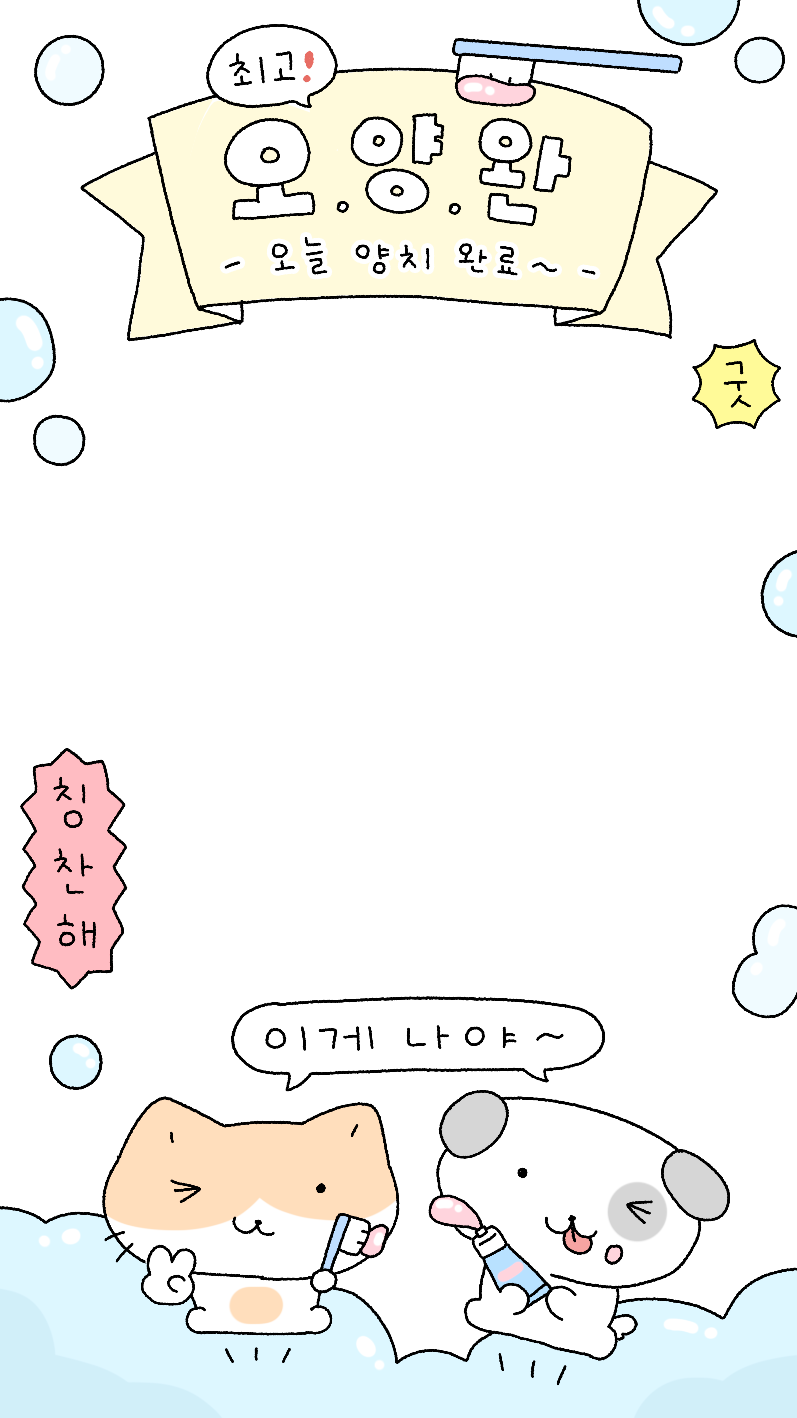
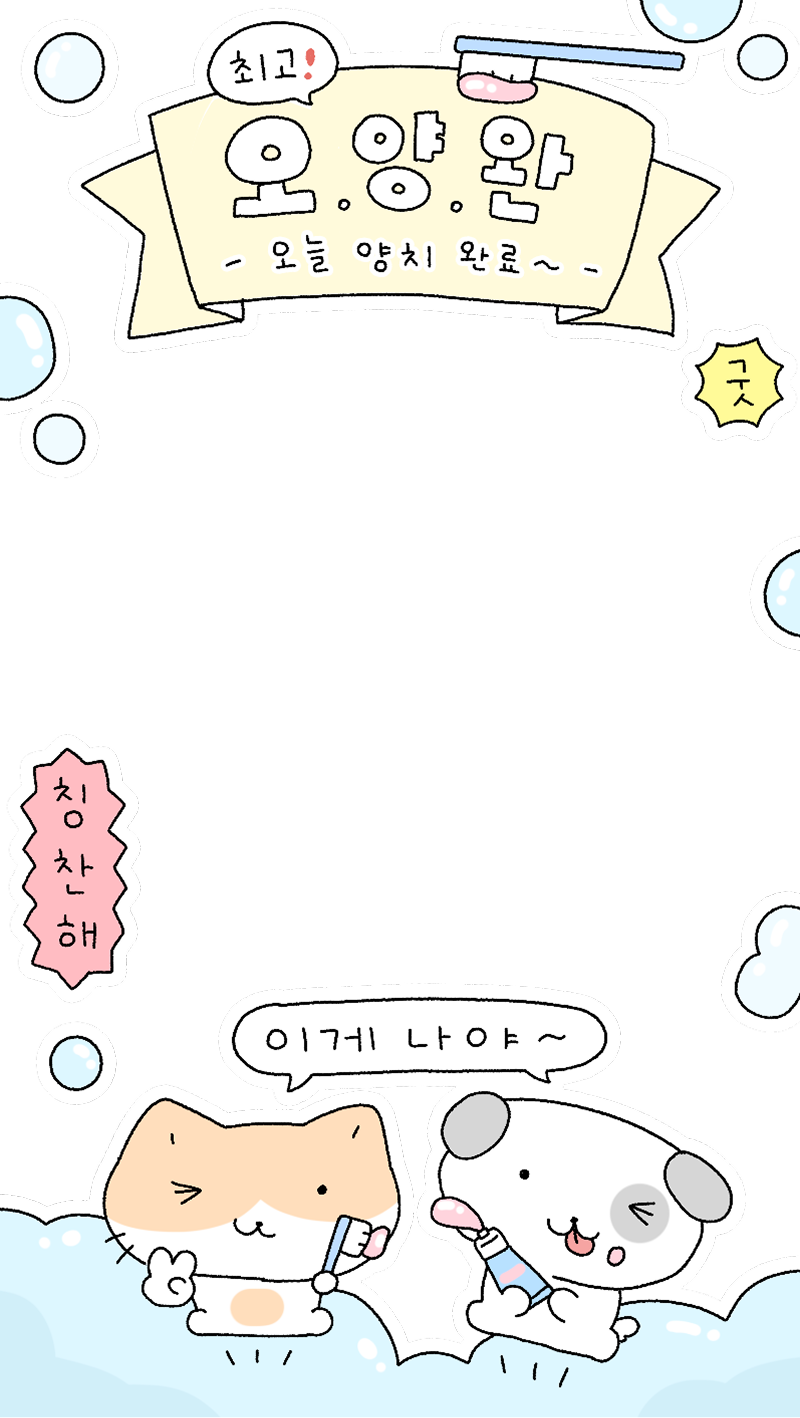
사진 촬영할 때 왼쪽 오른쪽 살짝 카메라에 비춰서 보였는데 해결

diff --git a/src/components/CameraCapture.tsx b/src/components/CameraCapture.tsx
@@ -27,7 +27,7 @@ const CameraCapture: React.FC<CameraCaptureProps> = ({
     const [currentOverlayIndex, setCurrentOverlayIndex] = useState(0)
     const [isLoading, setIsLoading] = useState(true)
     const [error, setError] = useState<string | null>(null)
-    
+
     // 3초 타이머 상태 추가
     const [isCountdownActive, setIsCountdownActive] = useState(false)
     const [countdown, setCountdown] = useState(3)
@@ -163,16 +163,16 @@ const CameraCapture: React.FC<CameraCaptureProps> = ({
     // 3초 카운트다운 시작 함수
     const startCountdown = () => {
         if (isCountdownActive) return // 이미 카운트다운 중이면 무시
-        
+
         setIsCountdownActive(true)
         setCountdown(3)
-        
+
         let currentCount = 3
-        
+
         const countdownInterval = setInterval(() => {
             currentCount -= 1
             setCountdown(currentCount)
-            
+
             if (currentCount === 0) {
                 clearInterval(countdownInterval)
                 setIsCountdownActive(false)
@@ -246,14 +246,14 @@ const CameraCapture: React.FC<CameraCaptureProps> = ({
         const handleCaptureEvent = () => {
             startCountdown(); // 바로 촬영하지 않고 카운트다운 시작
         };
-        
+
         window.addEventListener('capture-photo', handleCaptureEvent);
 
         // 클린업
         return () => {
             stopCamera()
             window.removeEventListener('capture-photo', handleCaptureEvent);
-            
+
             // 타이머 클린업
             if (timerRef.current) {
                 clearTimeout(timerRef.current);
@@ -347,24 +347,35 @@ const CameraCapture: React.FC<CameraCaptureProps> = ({
                     width: '100%',
                     height: '100%',
                     objectFit: 'cover',
-                    backgroundColor: '#000'
+                    backgroundColor: '#000',
+                    zIndex: 1
                 }}
-                playsinline
-                autoPlay
-                muted
-                playsInline
             />
 
-            {/* 오버레이 이미지 (비디오 위에 표시) */}
             <img
                 ref={overlayRef}
                 src={overlayImages[currentOverlayIndex]}
                 style={{
-                    position: 'absolute',
-                    top: 0,
-                    left: 0,
-                    width: '100%',
-                    height: '100%',
+                    position: 'fixed',
+                    top: 150,
+                    left: 140,
+                    width: '800px',
+                    height: '1418px',
+                    objectFit: 'cover',
+                    pointerEvents: 'none',
+                    zIndex: 5
+                }}
+            />
+            {/* 오버레이 이미지 (비디오 위에 표시) */}
+            {/*<img
+                ref={overlayRef}
+                src={overlayImages[currentOverlayIndex]}
+                style={{
+                    position: 'fixed',
+                    top: 150,
+                    left: 141,
+                    width: '799px',
+                    height: '1418px',
                     objectFit: 'cover',
                     // opacity: 0.7,
                     pointerEvents: 'none',
@@ -373,7 +384,7 @@ const CameraCapture: React.FC<CameraCaptureProps> = ({
                 alt="overlay"
                 onLoad={() => console.log('Overlay loaded:', overlayImages[currentOverlayIndex])}
                 onError={() => console.warn('Overlay failed to load:', overlayImages[currentOverlayIndex])}
-            />
+            />*/}
 
             {/* 오버레이 전환 버튼들 */}
             <div style={{
@@ -428,7 +439,7 @@ const CameraCapture: React.FC<CameraCaptureProps> = ({
             {/* 캔버스 (숨겨진 상태) */}
             <canvas
                 ref={canvasRef}
-                style={{ display: 'none' }}
+                style={{display: 'none'}}
             />
         </div>
     )
